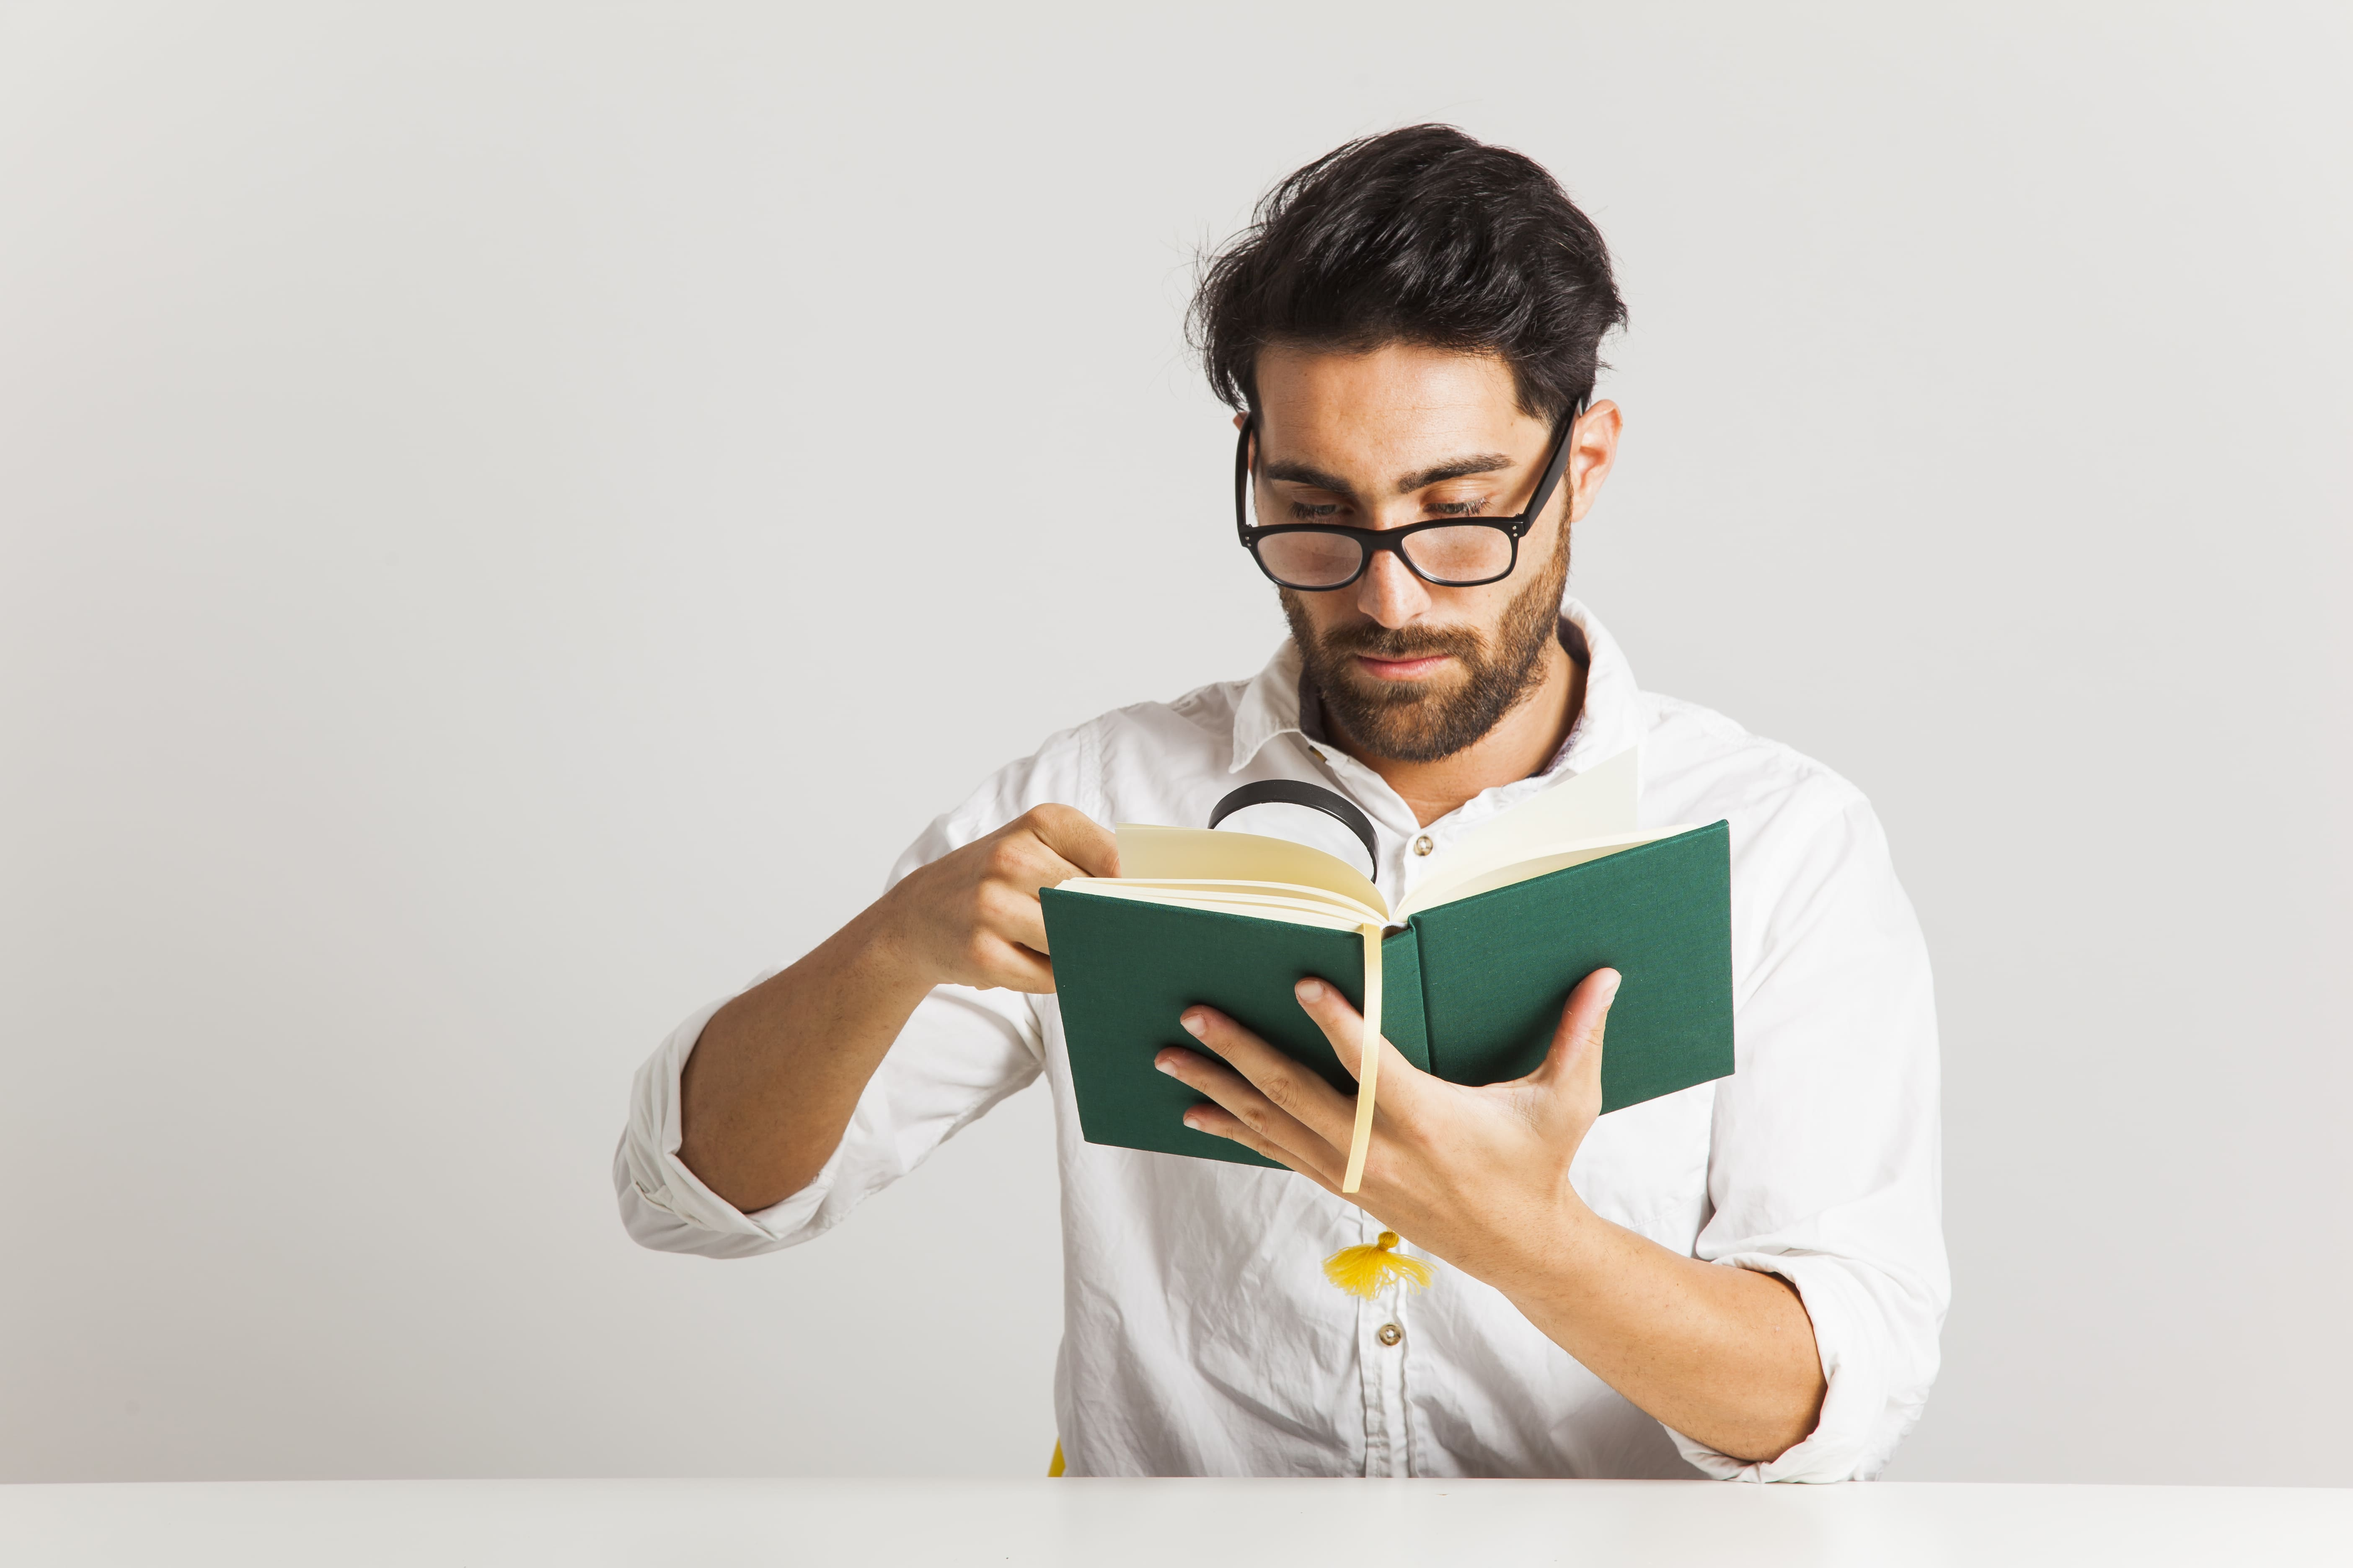
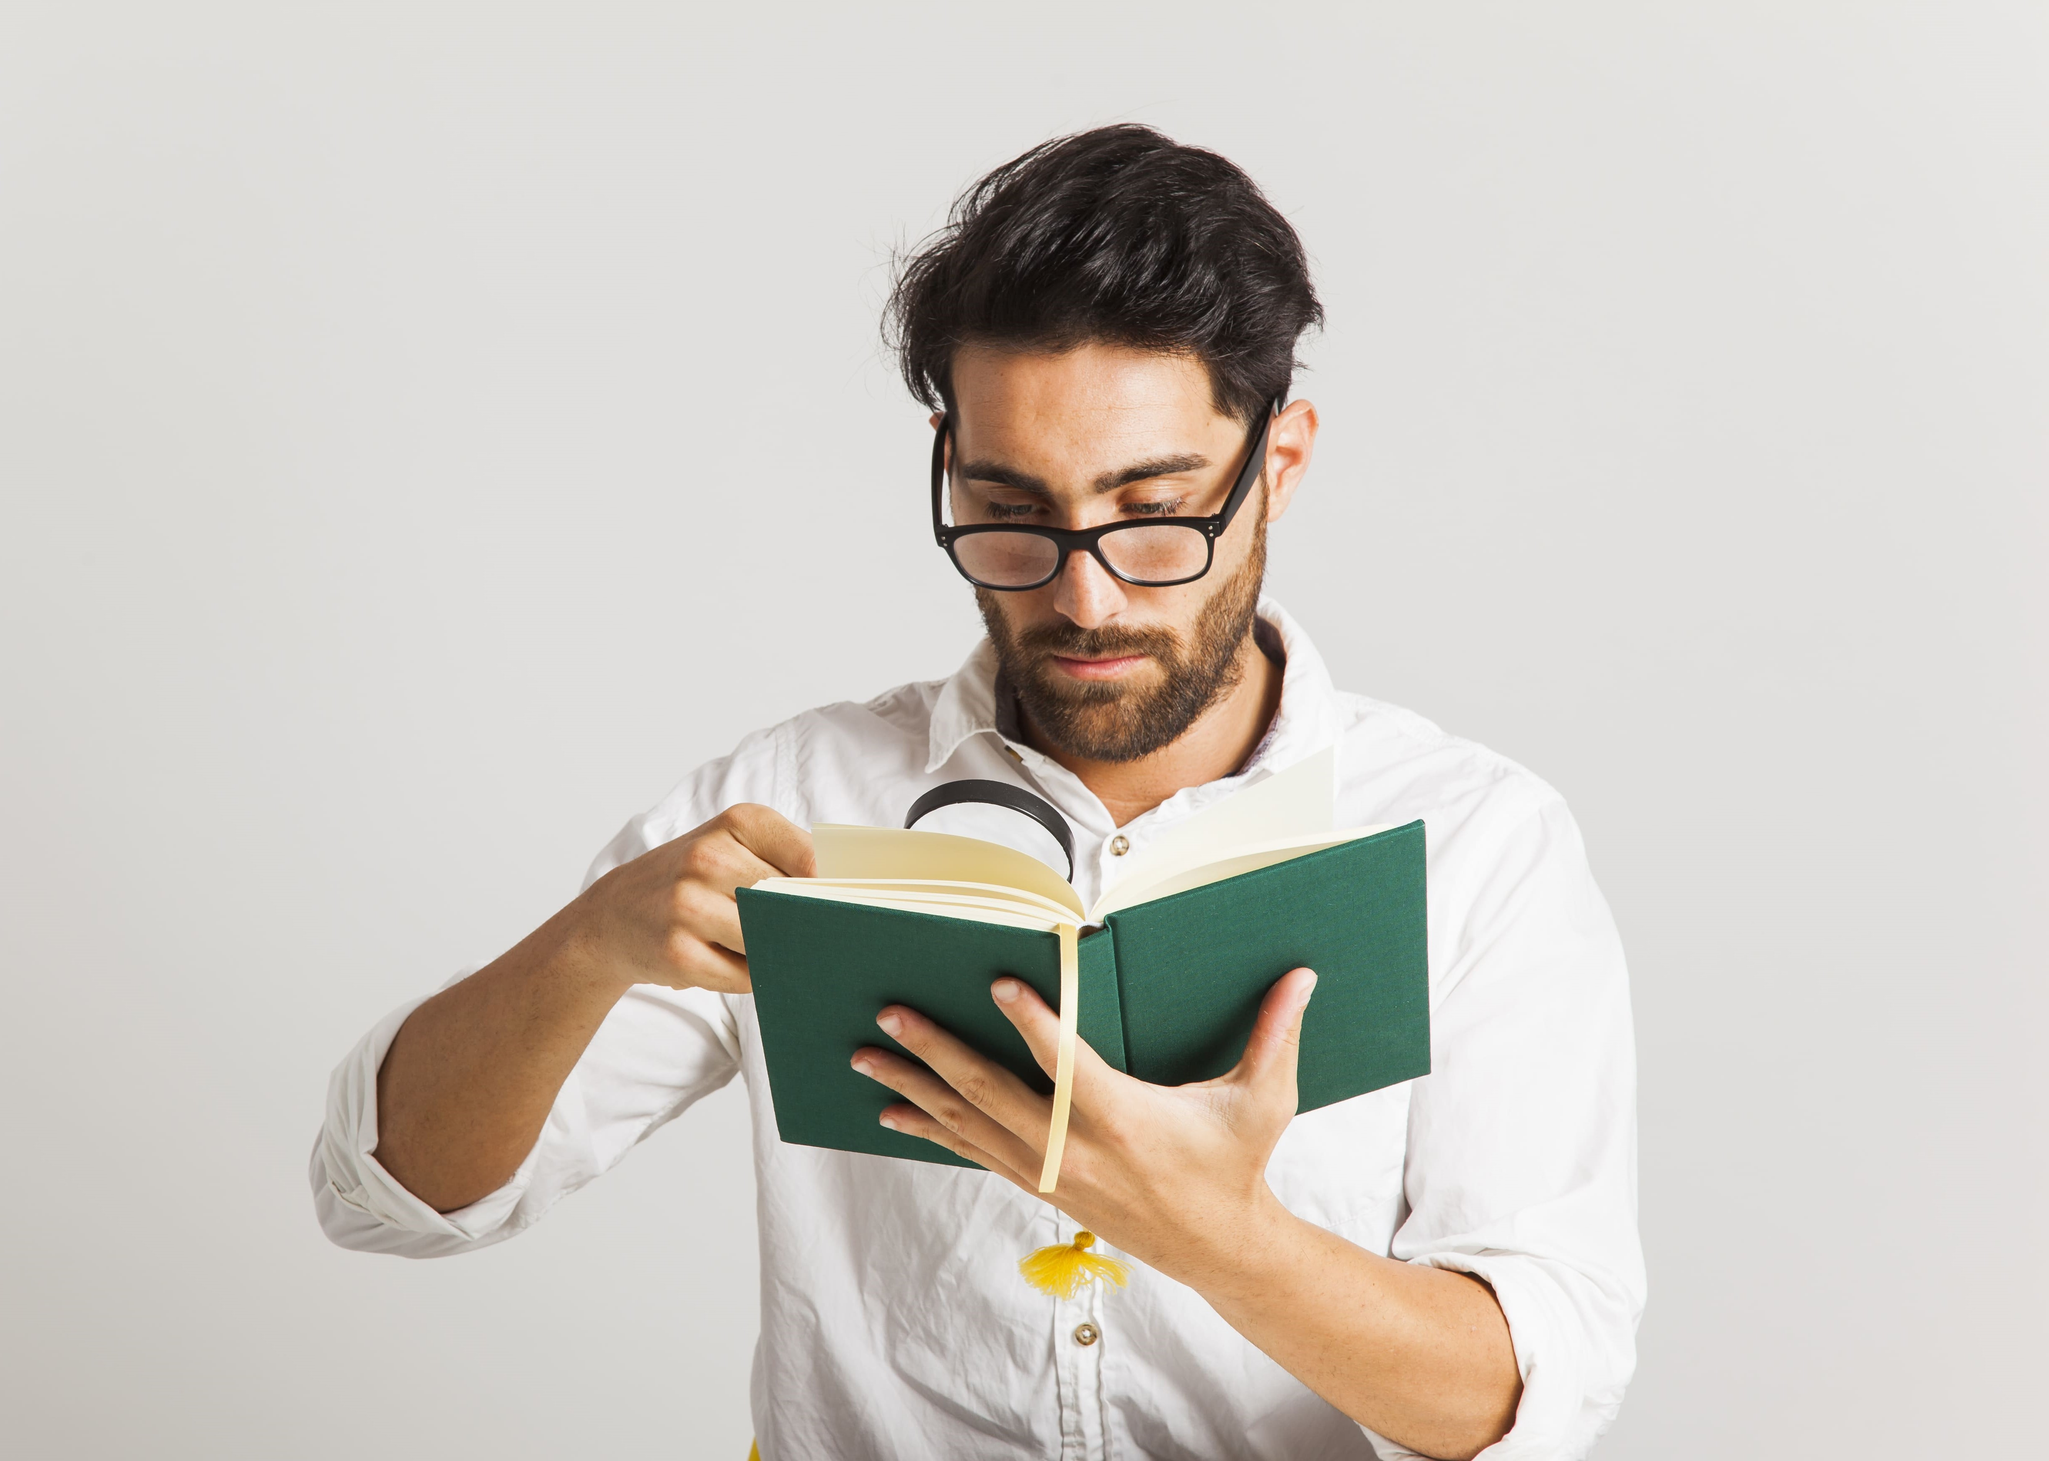
add AnimatedImage ui to fix the animate image while scroll

Changed region(s): [[0.1554, 0.0625, 0.9634, 1.0], [0.0, 0.9372, 0.1243, 1.0]]

diff --git a/Front-End/src/components/Features.tsx b/Front-End/src/components/Features.tsx
@@ -4,9 +4,8 @@ import { motion } from "framer-motion";
 import { FadeLeft, FadeUp, ViewPort } from "@/animation";
 import Image from "next/image";
 import { features } from "@/data/Features";
+import AnimatedImage from "./ui/AnimatedImage";
 const Features = () => {
- 
-
   return (
     <section className=" mb-20    ">
       <motion.h1
@@ -16,23 +15,17 @@ const Features = () => {
       >
         What Awaits <span> You </span>
       </motion.h1>
-      <motion.div
-        {...FadeUp}
-        {...ViewPort}
-        className="flex flex-col lg:flex-row items-center h-2/3 justify-evenly  gap-4   "
-      >
+      <div className="flex flex-col lg:flex-row items-center h-2/3 justify-evenly  gap-4   ">
         <div className="overflow-hidden w-full lg:w-2/6 md:max-w-xl h-[450px]  ">
-          <Image
+          <AnimatedImage
             alt="book reader"
             src="/Book-Reader.jpg"
-            width={1000}
-            height={1000}
             className="rounded-2xl object-cover w-full h-full"
           />
         </div>
 
         <div className="grid md:grid-cols-2  gap-4 w-fit">
-          {features.slice(0,4).map((item, i) => (
+          {features.slice(0, 4).map((item, i) => (
             <motion.div
               key={i}
               {...FadeUp}
@@ -43,14 +36,15 @@ const Features = () => {
               }}
               className="p-5 text-center py-7 border-dashed border-2 rounded-2xl w-full md:max-w-80"
             >
-              <h1 className="text-2xl flex items-center  justify-center gap-2 mb-2 "> 
-                <item.icon size={30}/>
-                {item.title}</h1>
+              <h1 className="text-2xl flex items-center  justify-center gap-2 mb-2 ">
+                <item.icon size={30} />
+                {item.title}
+              </h1>
               <p>{item.description}</p>
             </motion.div>
           ))}
         </div>
-      </motion.div>
+      </div>
     </section>
   );
 };

diff --git a/Front-End/src/components/ui/AnimatedImage.tsx b/Front-End/src/components/ui/AnimatedImage.tsx
@@ -1,0 +1,50 @@
+"use client";
+import React, { useEffect, useRef } from "react";
+import { motion, useAnimation, useInView } from "framer-motion";
+import Image from "next/image";
+import { cn } from "@/lib/utils";
+
+interface props {
+  src: string;
+  alt: string;
+  icon?: boolean;
+  className?: string;
+}
+
+const AnimatedImage: React.FC<props> = ({ src, alt, className = "", icon }) => {
+  const ref = useRef(null);
+  const inView = useInView(ref, { once: true, margin: "40px" });
+  const controls = useAnimation();
+
+  useEffect(() => {
+    if (inView) {
+      controls.start("visible");
+    }
+  }, [inView, controls]);
+
+  return (
+    <motion.div
+      ref={ref}
+      initial="hidden"
+      animate={controls}
+      variants={{
+        hidden: { opacity: 0, y: 50 },
+        visible: { opacity: 1, y: 0, transition: { duration: 0.6 } },
+      }}
+      transition={{ type: "spring", stiffness: 300 }}
+      className={cn("relative overflow-hidden ", className)}
+    >
+      <Image
+        src={src}
+        alt={alt}
+        width={icon ? 100 : 1000}
+        height={icon ? 100 : 1000}
+        draggable={false}
+        className=" w-full h-full object-cover  "
+      />
+      <div className="absolute top-0 left-0 w-full h-full z-10" />
+    </motion.div>
+  );
+};
+
+export default AnimatedImage;

diff --git a/Front-End/src/components/Community.tsx b/Front-End/src/components/Community.tsx
@@ -5,6 +5,7 @@ import { motion } from "framer-motion";
 import { FadeLeft, FadeRight, ViewPort } from "@/animation";
 import Link from "next/link";
 import { Button } from "./ui/button";
+import AnimatedImage from "./ui/AnimatedImage";
 const Community = () => {
   return (
     <section className="flex flex-col lg:flex-row items-center justify-evenly gap-10">
@@ -18,22 +19,17 @@ const Community = () => {
           meaningful relationships begin.
         </motion.p>
         <Link href="/login">
-          <Button variant="outline" className="text-xl py-4">Join Us</Button>
+          <Button variant="outline" className="text-xl py-4">
+            Join Us
+          </Button>
         </Link>
       </div>
-      <motion.div
-        {...FadeRight}
-        {...ViewPort}
-        className="w-full md:w-2/4 lg:w-2/5 max-w-2xl"
-      >
-        <Image
-          src="/Community.avif"
-          alt="Community image"
-          width={1000}
-          height={1000}
-          className="w-full rounded-2xl"
-        />
-      </motion.div>
+  
+      <AnimatedImage
+        src="/Community.avif"
+        alt="Community image"
+        className="w-full md:w-2/4 lg:w-2/5 max-w-2xl rounded-2xl"
+      />
     </section>
   );
 };

diff --git a/Front-End/src/components/About/Why_MaBook.tsx b/Front-End/src/components/About/Why_MaBook.tsx
@@ -2,19 +2,14 @@
 import React from "react";
 import { motion } from "framer-motion";
 import { FadeLeft, FadeUp, ViewPort } from "@/animation";
-import Image from "next/image";
-const MotionImage = motion(Image);
+import AnimatedImage from "../ui/AnimatedImage";
 const Why_MaBook = () => {
   return (
     <section className="flex flex-col-reverse md:flex-row gap-10 lg:gap-5 overflow-x-hidden ">
-      <MotionImage
-        {...FadeLeft}
-        {...ViewPort}
+      <AnimatedImage
         src="/young-man-examinating-book.jpg"
         alt="man reading book"
-        width={1000}
-        height={1000}
-        className="rounded-2xl w-full md:w-2/4 object-cover"
+        className="rounded-2xl w-full md:w-2/4 object-cover bg-red-500"
       />
       <div className=" space-y-5 w-full md:w-2/4">
         <motion.h1 {...FadeLeft} {...ViewPort} className="text-5xl lg:text-7xl">

diff --git a/Front-End/src/components/About/Hero.tsx b/Front-End/src/components/About/Hero.tsx
@@ -3,6 +3,7 @@ import Image from "next/image";
 import React from "react";
 import { motion } from "framer-motion";
 import { Animate, FadeLeft, FadeRight } from "@/animation";
+import AnimatedImage from "../ui/AnimatedImage";
 const MotionImageDirect = motion(Image);
 
 const Hero = () => {
@@ -23,14 +24,10 @@ const Hero = () => {
           to express, connect, and inspire through books.
         </motion.p>
       </div>
-      <MotionImageDirect
-        {...FadeRight}
-        {...Animate}
+
+      <AnimatedImage
         src="/Community_about.jpg"
         alt="community image"
-        width={1000}
-        height={1000}
-        draggable={false}
         className="object-cover w-full max-w-xl  md:w-2/4 lg:h-2/3 rounded-2xl"
       />
     </section>

diff --git a/Front-End/src/components/About/Features.tsx b/Front-End/src/components/About/Features.tsx
@@ -15,15 +15,15 @@ const Features = () => {
       </motion.h1>
 
       <div className="space-y-5">
-        {features.map((item) => (
+        {features.map((item, i) => (
           <motion.div
+            key={i}
             {...FadeUp}
             {...ViewPort}
             whileHover={{
               scale: 1.01,
               y: -2,
             }}
-            key={item.title}
             className="w-full  space-y-2 border-dashed border-2 p-4 rounded-2xl "
           >
             <h1 className="flex items-center gap-2 text-4xl">
